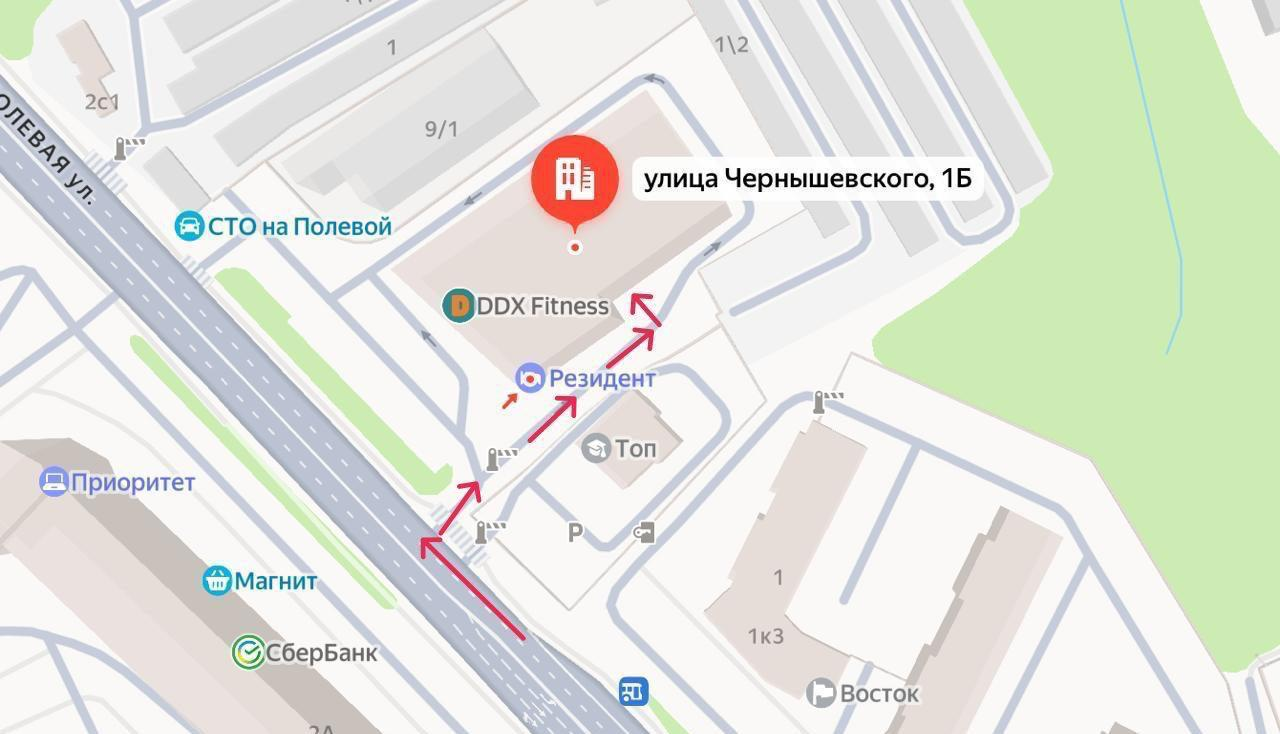
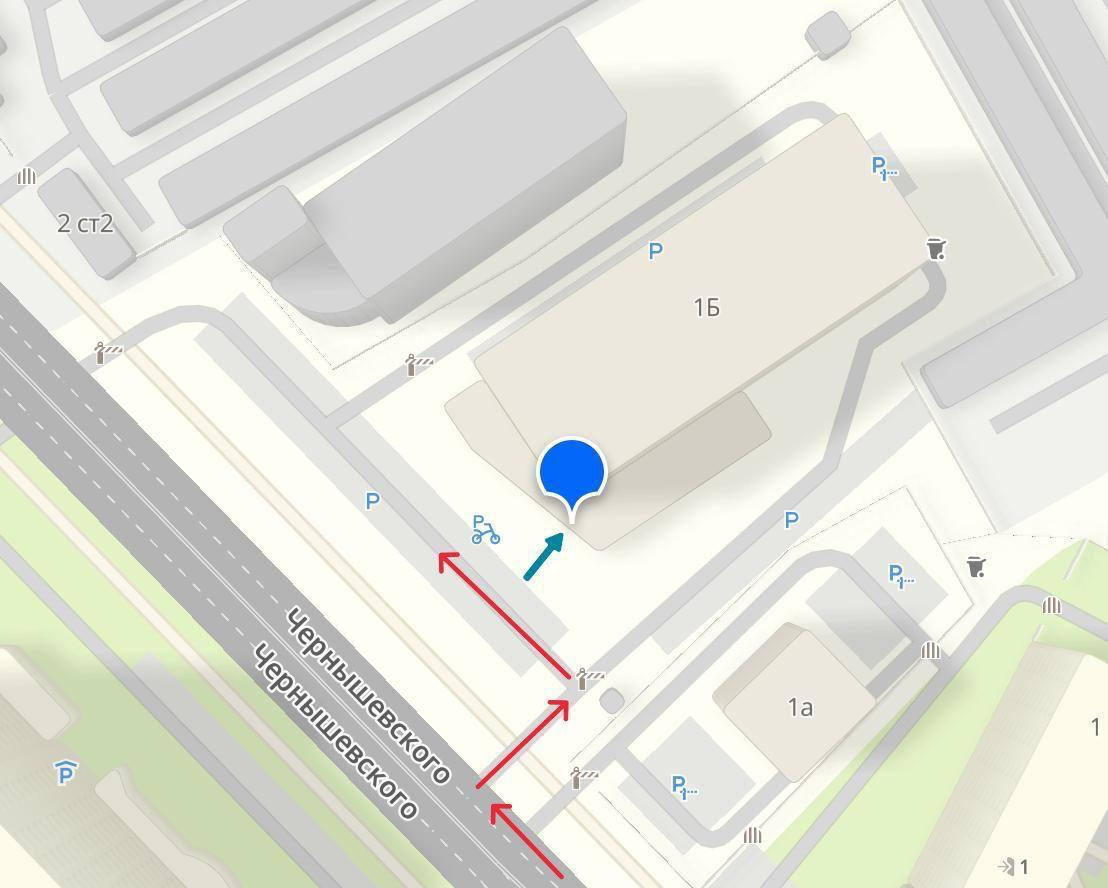
office card update

diff --git a/app/office_cards.py b/app/office_cards.py
@@ -41,15 +41,14 @@ OFFICE_CARDS: dict[str, OfficeCard] = {
     ),
     "тюм": OfficeCard(
             command="тюм",
-            photo_file_id="AgACAgIAAxkDAALZH2naOUCgl2XvCLVcTl_YjKWtWL90AAKXE2sbts3QSnOXOJXlPPi0AQADAgADeQADOwQ",
+            photo_file_id=None,
             image_path=Path("images/tum_office.jpeg"),
             caption=(
                 "📍 <b>Адрес офиса:</b>\n"
                 "г. Тюмень, ул. <b>Чернышевского, 1Б</b>\n"
                 "БЦ <b>«Резидент»</b>, 7 этаж, офис 709\n\n"
                 "🚗 <b>Парковка:</b>\n"
-                "Подземный паркинг БЦ.\n"
-                "Пожалуйста, заранее сообщите номер и марку автомобиля, чтобы мы оформили въезд.\n\n"
+                "Въезд с <b>ул. Чернышевского.</b>"
             ),
         ),
 }
